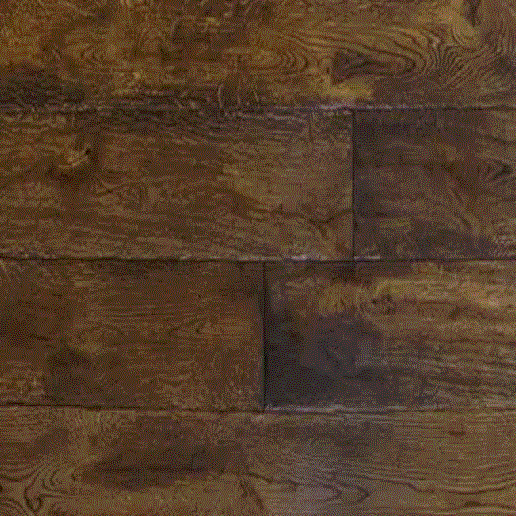
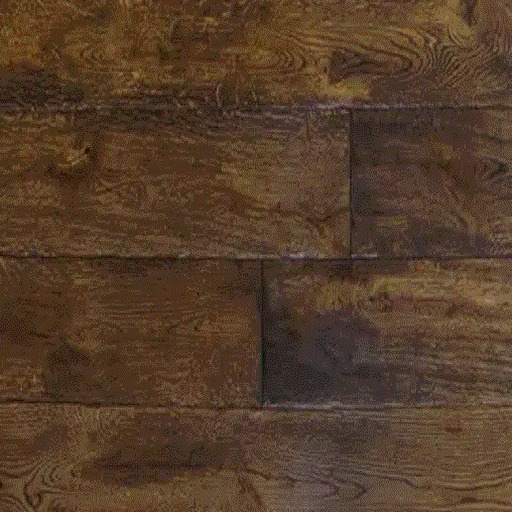
pot, perf

diff --git a/src/ThreeDee.ts b/src/ThreeDee.ts
@@ -29,6 +29,7 @@ interface RayCircleHit {
 
 export class ThreeDee {
 	private readonly frameBuffer: Uint8Array;
+	private readonly frameBuffer32: Uint32Array;
 	private readonly imageData: ImageData;
 	private readonly rayPoints: IVec2[] = [];
 	private readonly offscreenCanvas: OffscreenCanvas;
@@ -45,9 +46,10 @@ export class ThreeDee {
 	public whiteMaskPixelCount: number = 0;
 
 	constructor(public readonly game: Game) {
-		this.frameBuffer = new Uint8Array(
-			Constants.LOWRES_WIDTH * Constants.LOWRES_HEIGHT * 3,
-		);
+		const pixelCount = Constants.LOWRES_WIDTH * Constants.LOWRES_HEIGHT;
+		const buffer = new ArrayBuffer(pixelCount * 4);
+		this.frameBuffer = new Uint8Array(buffer);
+		this.frameBuffer32 = new Uint32Array(buffer);
 		this.imageData = new ImageData(
 			Constants.LOWRES_WIDTH,
 			Constants.LOWRES_HEIGHT,
@@ -173,8 +175,8 @@ export class ThreeDee {
 		// Count fully white helmet sprite pixels rendered this frame
 		let whiteHelmetPixelCount = 0;
 
-		// Clear frame buffer
-		frameBuffer.fill(0);
+		// Clear frame buffer (0xFF000000 = opaque black in little-endian ABGR)
+		this.frameBuffer32.fill(0xff000000);
 
 		const playerSimplex = this.game.level.findSimplex(player.pos);
 		if (!playerSimplex) {
@@ -186,9 +188,19 @@ export class ThreeDee {
 		const floorTex = this.floorTextureData!;
 		const ceilingTex = this.ceilingTextureData!;
 		const wallTex = this.wallTextureData!;
-		const spriteTex = this.playerSpriteData!;
+		const playerSpriteTex = this.playerSpriteData!;
 		const helmetSpriteTex = this.helmetSpriteData!;
 		const halfHeight = Constants.LOWRES_HEIGHT / 2;
+
+		// Pre-compute texture dimensions and masks (assumes power-of-2 textures)
+		const floorTexW = floorTex.width;
+		const floorTexH = floorTex.height;
+		const floorTexWMask = floorTexW - 1;
+		const floorTexHMask = floorTexH - 1;
+		const ceilTexW = ceilingTex.width;
+		const ceilTexH = ceilingTex.height;
+		const ceilTexWMask = ceilTexW - 1;
+		const ceilTexHMask = ceilTexH - 1;
 
 		// Z-buffer for this column (stores distance at each pixel for depth sorting)
 		const columnDepth = new Float32Array(Constants.LOWRES_HEIGHT);
@@ -268,20 +280,22 @@ export class ThreeDee {
 
 							// Flip player texture horizontally for walk animation (mask stays unflipped)
 							const playerU = isSpriteFlipped(sprite) ? 1 - hit.u : hit.u;
-							const playerTexX = Math.floor(playerU * (spriteTex.width - 1));
+							const playerTexX = Math.floor(
+								playerU * (playerSpriteTex.width - 1),
+							);
 							const maskTexX = Math.floor(hit.u * (helmetSpriteTex.width - 1));
 							const unclampedSpriteHeight =
 								(Constants.LOWRES_HEIGHT * 2 * sprite.size) /
 								spriteCorrectedDist;
 
-							// Check if sprite is facing the camera
+							// Check if sprite is facing the camera (use segmentDir, not ray.dir which may be reflected)
 							const spriteFacingDir: IVec2 = {
 								x: Math.cos(sprite.angle),
 								y: Math.sin(sprite.angle),
 							};
 							const facingCamera = Player.isFacingTowards(
 								spriteFacingDir,
-								ray.dir,
+								segmentDir,
 							);
 
 							for (let yIdx = -spriteHeight; yIdx < spriteHeight; yIdx++) {
@@ -295,20 +309,21 @@ export class ThreeDee {
 										(yIdx + unclampedSpriteHeight) /
 										(2 * unclampedSpriteHeight);
 									const texY =
-										spriteTex.height -
+										playerSpriteTex.height -
+										1 -
 										Math.max(
 											0,
 											Math.min(
-												spriteTex.height - 1,
-												Math.floor(v * (spriteTex.height - 1)),
+												playerSpriteTex.height - 1,
+												Math.floor(v * (playerSpriteTex.height - 1)),
 											),
 										);
 									const playerTexIdx =
-										(texY * spriteTex.width + playerTexX) * 4;
+										(texY * playerSpriteTex.width + playerTexX) * 4;
 									const maskTexIdx =
 										(texY * helmetSpriteTex.width + maskTexX) * 4;
 
-									const playerAlpha = spriteTex.data[playerTexIdx + 3]!;
+									const playerAlpha = playerSpriteTex.data[playerTexIdx + 3]!;
 
 									const maskAlpha = helmetSpriteTex.data[maskTexIdx + 3]!;
 									// facingCamera = true means sprite facing towards ray.dir → helmet on top
@@ -319,13 +334,19 @@ export class ThreeDee {
 										// Draw player first (bottom layer)
 										if (playerAlpha >= 10) {
 											const color: Rgb8Color = {
-												r: spriteTex.data[playerTexIdx]! * spriteBrightnessFactor,
-												g: spriteTex.data[playerTexIdx + 1]! * spriteBrightnessFactor,
-												b: spriteTex.data[playerTexIdx + 2]! * spriteBrightnessFactor,
+												r:
+													playerSpriteTex.data[playerTexIdx]! *
+													spriteBrightnessFactor,
+												g:
+													playerSpriteTex.data[playerTexIdx + 1]! *
+													spriteBrightnessFactor,
+												b:
+													playerSpriteTex.data[playerTexIdx + 2]! *
+													spriteBrightnessFactor,
 											};
 											clut.applyMut(color);
 
-											const idx = (yScreen * Constants.LOWRES_WIDTH + x) * 3;
+											const idx = (yScreen * Constants.LOWRES_WIDTH + x) * 4;
 											frameBuffer[idx] = color.r;
 											frameBuffer[idx + 1] = color.g;
 											frameBuffer[idx + 2] = color.b;
@@ -348,7 +369,7 @@ export class ThreeDee {
 											};
 											clut.applyMut(color);
 
-											const idx = (yScreen * Constants.LOWRES_WIDTH + x) * 3;
+											const idx = (yScreen * Constants.LOWRES_WIDTH + x) * 4;
 											frameBuffer[idx] = color.r;
 											frameBuffer[idx + 1] = color.g;
 											frameBuffer[idx + 2] = color.b;
@@ -372,7 +393,7 @@ export class ThreeDee {
 											};
 											clut.applyMut(color);
 
-											const idx = (yScreen * Constants.LOWRES_WIDTH + x) * 3;
+											const idx = (yScreen * Constants.LOWRES_WIDTH + x) * 4;
 											frameBuffer[idx] = color.r;
 											frameBuffer[idx + 1] = color.g;
 											frameBuffer[idx + 2] = color.b;
@@ -381,13 +402,19 @@ export class ThreeDee {
 										// Draw player on top
 										if (playerAlpha >= 10) {
 											const color: Rgb8Color = {
-												r: spriteTex.data[playerTexIdx]! * spriteBrightnessFactor,
-												g: spriteTex.data[playerTexIdx + 1]! * spriteBrightnessFactor,
-												b: spriteTex.data[playerTexIdx + 2]! * spriteBrightnessFactor,
+												r:
+													playerSpriteTex.data[playerTexIdx]! *
+													spriteBrightnessFactor,
+												g:
+													playerSpriteTex.data[playerTexIdx + 1]! *
+													spriteBrightnessFactor,
+												b:
+													playerSpriteTex.data[playerTexIdx + 2]! *
+													spriteBrightnessFactor,
 											};
 											clut.applyMut(color);
 
-											const idx = (yScreen * Constants.LOWRES_WIDTH + x) * 3;
+											const idx = (yScreen * Constants.LOWRES_WIDTH + x) * 4;
 											frameBuffer[idx] = color.r;
 											frameBuffer[idx + 1] = color.g;
 											frameBuffer[idx + 2] = color.b;
@@ -444,16 +471,10 @@ export class ThreeDee {
 						yCeil < Constants.LOWRES_HEIGHT &&
 						pixelDist < columnDepth[yCeil]!
 					) {
-						const texX =
-							((Math.floor(worldX * ceilingTex.width) % ceilingTex.width) +
-								ceilingTex.width) %
-							ceilingTex.width;
-						const texY =
-							((Math.floor(worldY * ceilingTex.height) % ceilingTex.height) +
-								ceilingTex.height) %
-							ceilingTex.height;
+						const texX = (worldX * ceilTexW) & ceilTexWMask;
+						const texY = (worldY * ceilTexH) & ceilTexHMask;
 
-						const texIdx = (texY * ceilingTex.width + texX) * 4;
+						const texIdx = (texY * ceilTexW + texX) * 4;
 
 						const color: Rgb8Color = {
 							r: ceilingTex.data[texIdx]! * pixelBrightnessFactor,
@@ -462,7 +483,7 @@ export class ThreeDee {
 						};
 						clut.applyMut(color);
 
-						const idx = (yCeil * Constants.LOWRES_WIDTH + x) * 3;
+						const idx = (yCeil * Constants.LOWRES_WIDTH + x) * 4;
 						frameBuffer[idx] = color.r;
 						frameBuffer[idx + 1] = color.g;
 						frameBuffer[idx + 2] = color.b;
@@ -476,16 +497,10 @@ export class ThreeDee {
 						yFloor < Constants.LOWRES_HEIGHT &&
 						pixelDist < columnDepth[yFloor]!
 					) {
-						const texX =
-							((Math.floor(worldX * floorTex.width) % floorTex.width) +
-								floorTex.width) %
-							floorTex.width;
-						const texY =
-							((Math.floor(worldY * floorTex.height) % floorTex.height) +
-								floorTex.height) %
-							floorTex.height;
+						const texX = (worldX * floorTexW) & floorTexWMask;
+						const texY = (worldY * floorTexH) & floorTexHMask;
 
-						const texIdx = (texY * floorTex.width + texX) * 4;
+						const texIdx = (texY * floorTexW + texX) * 4;
 
 						const color: Rgb8Color = {
 							r: floorTex.data[texIdx]! * pixelBrightnessFactor,
@@ -494,7 +509,7 @@ export class ThreeDee {
 						};
 
 						clut.applyMut(color);
-						const idx = (yFloor * Constants.LOWRES_WIDTH + x) * 3;
+						const idx = (yFloor * Constants.LOWRES_WIDTH + x) * 4;
 						frameBuffer[idx] = color.r;
 						frameBuffer[idx + 1] = color.g;
 						frameBuffer[idx + 2] = color.b;
@@ -540,7 +555,7 @@ export class ThreeDee {
 							};
 							clut.applyMut(color);
 
-							const idx = (yWall * Constants.LOWRES_WIDTH + x) * 3;
+							const idx = (yWall * Constants.LOWRES_WIDTH + x) * 4;
 							frameBuffer[idx] = color.r;
 							frameBuffer[idx + 1] = color.g;
 							frameBuffer[idx + 2] = color.b;
@@ -611,16 +626,8 @@ export class ThreeDee {
 
 	draw(ctx: Ctx) {
 		const { frameBuffer, imageData, offscreenCanvas, offscreenCtx } = this;
-		const rgba = imageData.data;
 
-		for (let i = 0; i < Constants.LOWRES_WIDTH * Constants.LOWRES_HEIGHT; i++) {
-			const srcIdx = i * 3;
-			const dstIdx = i * 4;
-			rgba[dstIdx] = frameBuffer[srcIdx]!;
-			rgba[dstIdx + 1] = frameBuffer[srcIdx + 1]!;
-			rgba[dstIdx + 2] = frameBuffer[srcIdx + 2]!;
-			rgba[dstIdx + 3] = 255;
-		}
+		imageData.data.set(frameBuffer);
 
 		offscreenCtx.putImageData(imageData, 0, 0);
 		ctx.imageSmoothingEnabled = false;

diff --git a/src/doom.ts b/src/doom.ts
@@ -291,6 +291,8 @@ export class Game {
 			}
 		}
 		ctx.stroke();
+
+		this.debugDrawTextures(ctx);
 	}
 
 	private debugDrawTextures(ctx: Ctx) {
@@ -307,6 +309,20 @@ export class Game {
 		ctx.drawImage(
 			this.wallImage,
 			padding + (thumbSize + padding) * 2,
+			padding,
+			thumbSize,
+			thumbSize,
+		);
+		ctx.drawImage(
+			this.playerSpriteImage,
+			padding + (thumbSize + padding) * 3,
+			padding,
+			thumbSize,
+			thumbSize,
+		);
+		ctx.drawImage(
+			this.helmetSpriteImage,
+			padding + (thumbSize + padding) * 4,
 			padding,
 			thumbSize,
 			thumbSize,
